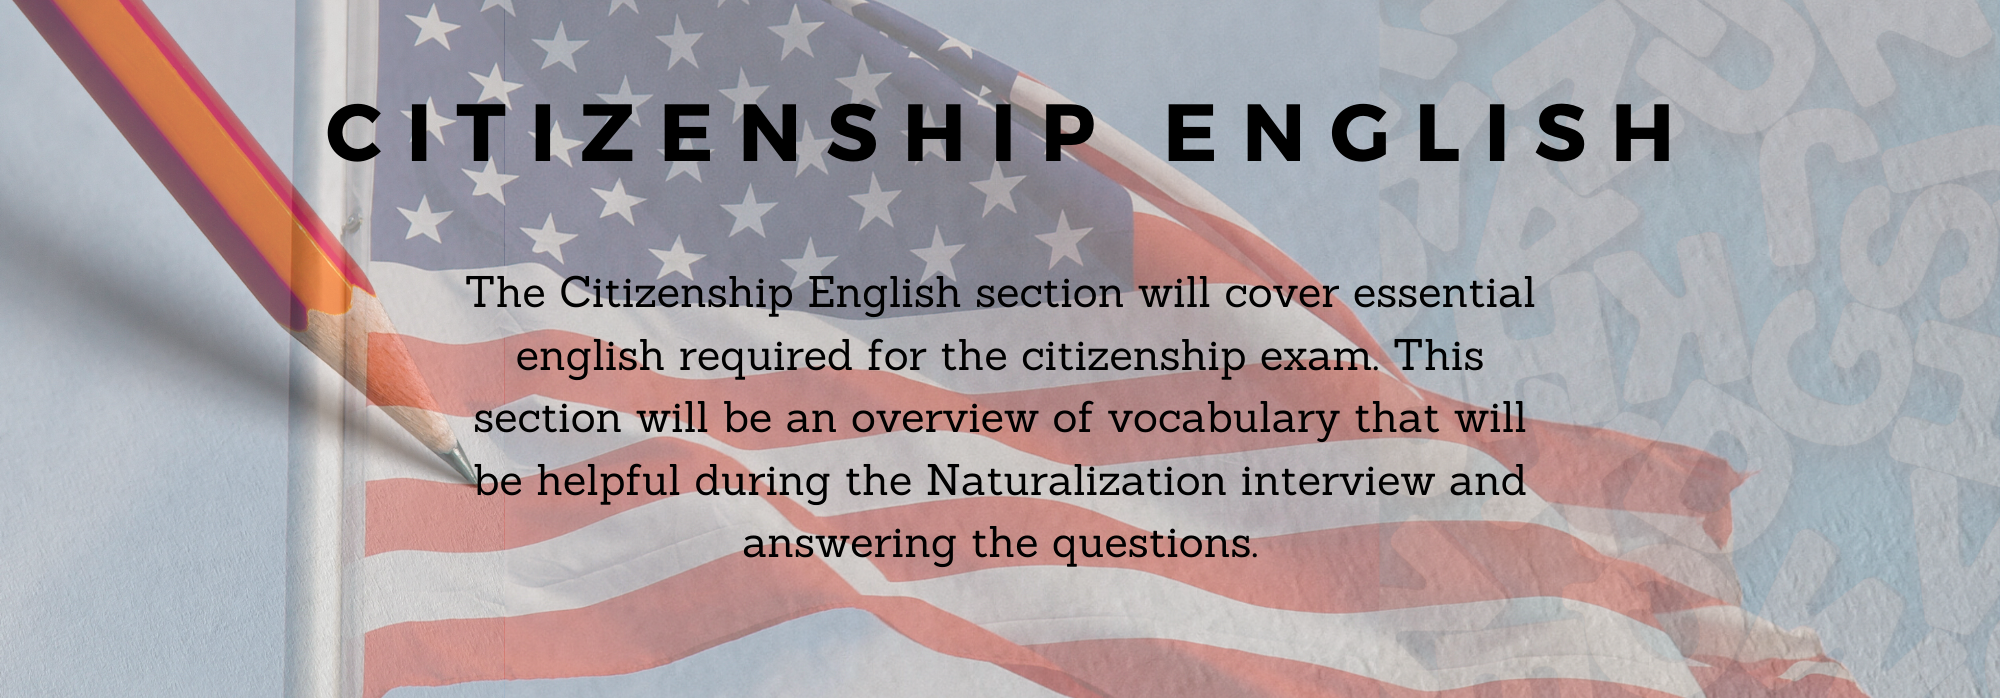
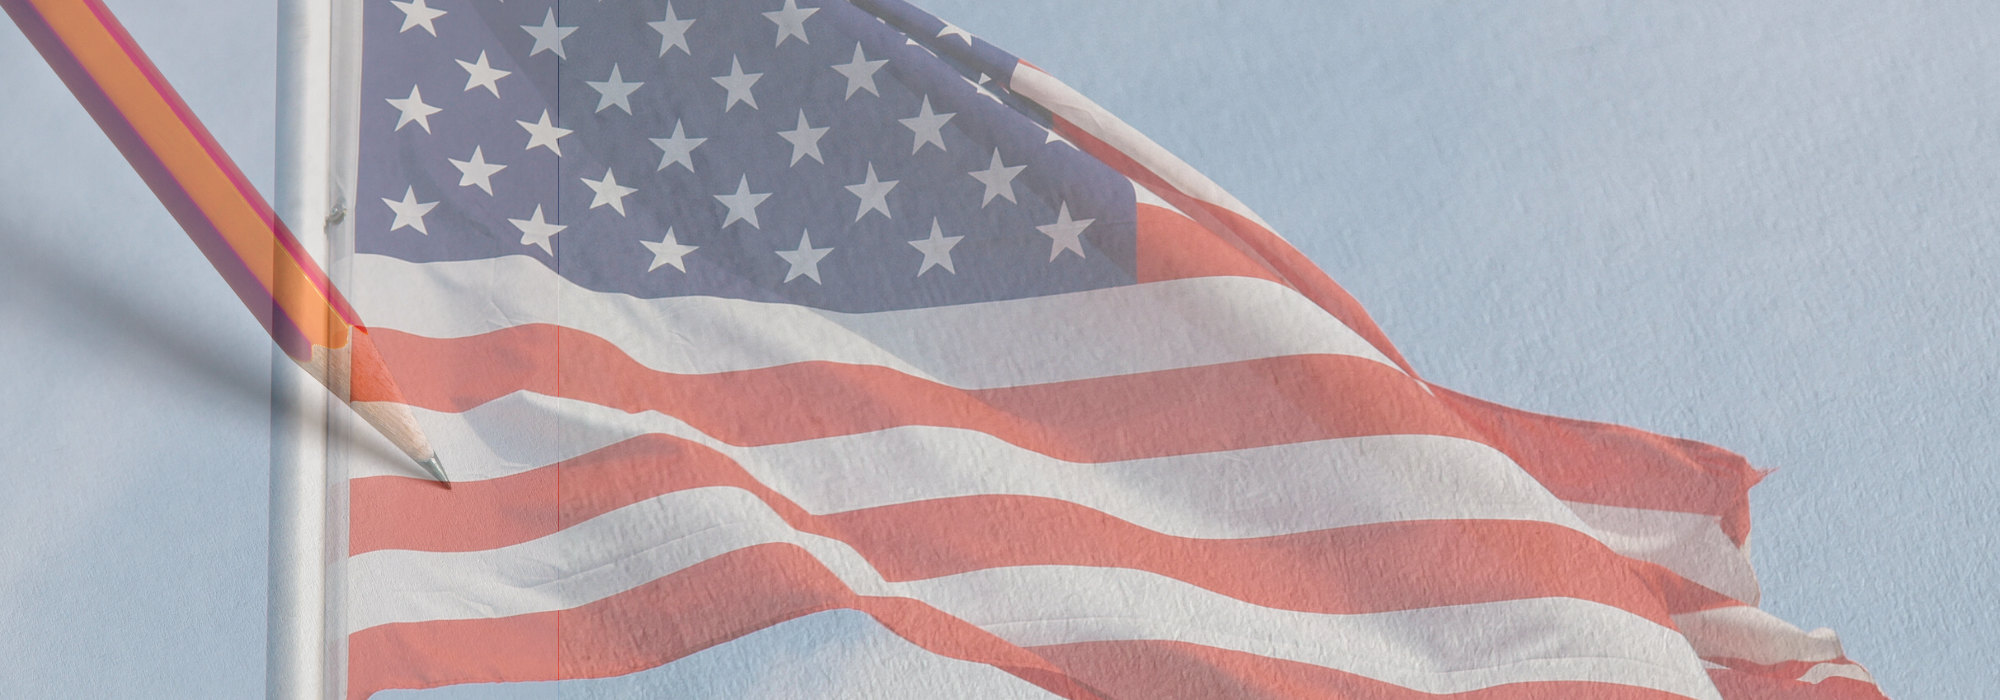
bkgs & fonts

diff --git a/ushistory.html b/ushistory.html
@@ -16,6 +16,9 @@
   <!-- Custom styles for this template -->
   <link href="css/custom.css" rel="stylesheet">
 
+  <link href="https://fonts.googleapis.com/css2?family=Comfortaa:wght@700&display=swap" rel="stylesheet">
+  <link href="https://fonts.googleapis.com/css2?family=Source+Sans+Pro:wght@300&display=swap" rel="stylesheet">
+
 </head>
 
 <body>
@@ -51,19 +54,20 @@
 
   <!-- Page Content -->
 
-  <div class="text-center pt-5 pb-5 banner" style="background-image: url('images/whatisamerica.png');" >
+  <div class="text-center pt-5 pb-5 banner" style="background-image: url('images/ushistory_banner.png');" >
     <div class="mx-auto" style="width: 70%;">
       <br>
-      <h2>
-        US HISTORY
-      </h2>
+      <h1 style = "font-family: 'Comfortaa', cursive;">
+        US History
+      </h1>
       <br>
-      <h3 class="font-weight-normal">
+      <h3 class="font-weight-normal" style = "font-family: 'Source Sans Pro', sans-serif;">
         The US History section will cover the required knowledge for the citizenship exam.
         During the citizenship interview, the interviewer will ask 10 questions regarding US History.
         You will have to answer at least 6 correctly in order to pass the exam. 
       </h3>
-      <br>
+      <br></br>
+
       <a href="ushistory_test.php" class="btn btn-primary btn-lg">Take the test!</a>
     </div>
   </div>

diff --git a/english.html b/english.html
@@ -15,6 +15,8 @@
 
   <!-- Custom styles for this template -->
   <link href="css/custom.css" rel="stylesheet">
+  <link href="https://fonts.googleapis.com/css2?family=Comfortaa:wght@700&display=swap" rel="stylesheet">
+  <link href="https://fonts.googleapis.com/css2?family=Source+Sans+Pro:wght@300&display=swap" rel="stylesheet">
 
 </head>
 
@@ -50,18 +52,19 @@
   </nav>
 
   <!-- Page Content -->
-  <div class="text-center pt-5 pb-5 banner" style="background-image: url('images/eng_unit_7.jpg');" >
+  <div class="text-center pt-5 pb-5 banner" style="background-image: url('images/english_banner.png');" >
     <div class="mx-auto" style="width: 70%;">
       <br>
-      <h2>
-        CITIZENSHIP ENGLISH
-      </h2>
+      <h1 style = "font-family: 'Comfortaa', cursive;">
+        Citizenship English
+      </h1>
       <br>
-      <h3 class="font-weight-normal">
+      <h3 class="font-weight-normal" style = "font-family: 'Source Sans Pro', sans-serif;">
       The Citizenship English section will cover essential English required for the citizenship exam.
       This section will be an overview of vocabulary that will be helpful during the Naturalization interview and answering the questions.
       </h3>
-      <br>
+      <br></br>
+      
       <a href="english_test.php" class="btn btn-primary btn-lg">Take the test!</a>
     </div>
   </div>

diff --git a/other.html b/other.html
@@ -16,6 +16,9 @@
   <!-- Custom styles for this template -->
   <link href="css/custom.css" rel="stylesheet">
 
+  <link href="https://fonts.googleapis.com/css2?family=Comfortaa:wght@700&display=swap" rel="stylesheet">
+
+
 </head>
 
 <body>
@@ -50,9 +53,13 @@
   </nav>
 
   <!-- Page Content -->
-  <div style="width:100%; height:100%">
-    <!-- Jumbotron Header -->
-      <img class="bg-primary" src="images/vidwks.png" style="width:100%;"> </img>
+  <div class="text-center pt-5 pb-5 banner" style="background-image: url('images/others.png');" >
+    <div class="mx-auto" style="width: 70%;">
+      <br>
+      <h1 style = "font-family: 'Comfortaa', cursive;">
+        Videos and Worksheets
+      </h1>
+    </div>
   </div>
     <!-- Page Features -->
     <br>

diff --git a/contact.html b/contact.html
@@ -15,6 +15,8 @@
 
   <!-- Custom styles for this template -->
   <link href="css/custom.css" rel="stylesheet">
+  <link href="https://fonts.googleapis.com/css2?family=Comfortaa:wght@700&display=swap" rel="stylesheet">
+
 
 </head>
 
@@ -50,9 +52,13 @@
   </nav>
 
   <!-- Page Content -->
-  <div style="width:100%; height:100%">
-    <!-- Jumbotron Header -->
-      <img class="bg-primary" src="images/contactus.png" style="width:100%;"> </img>
+  <div class="text-center pt-5 pb-5 banner" style="background-image: url('images/others.png');" >
+    <div class="mx-auto" style="width: 70%;">
+      <br>
+      <h1 style = "font-family: 'Comfortaa', cursive;">
+        Contact Us
+      </h1>
+    </div>
   </div>
     <!-- Page Features -->
 
